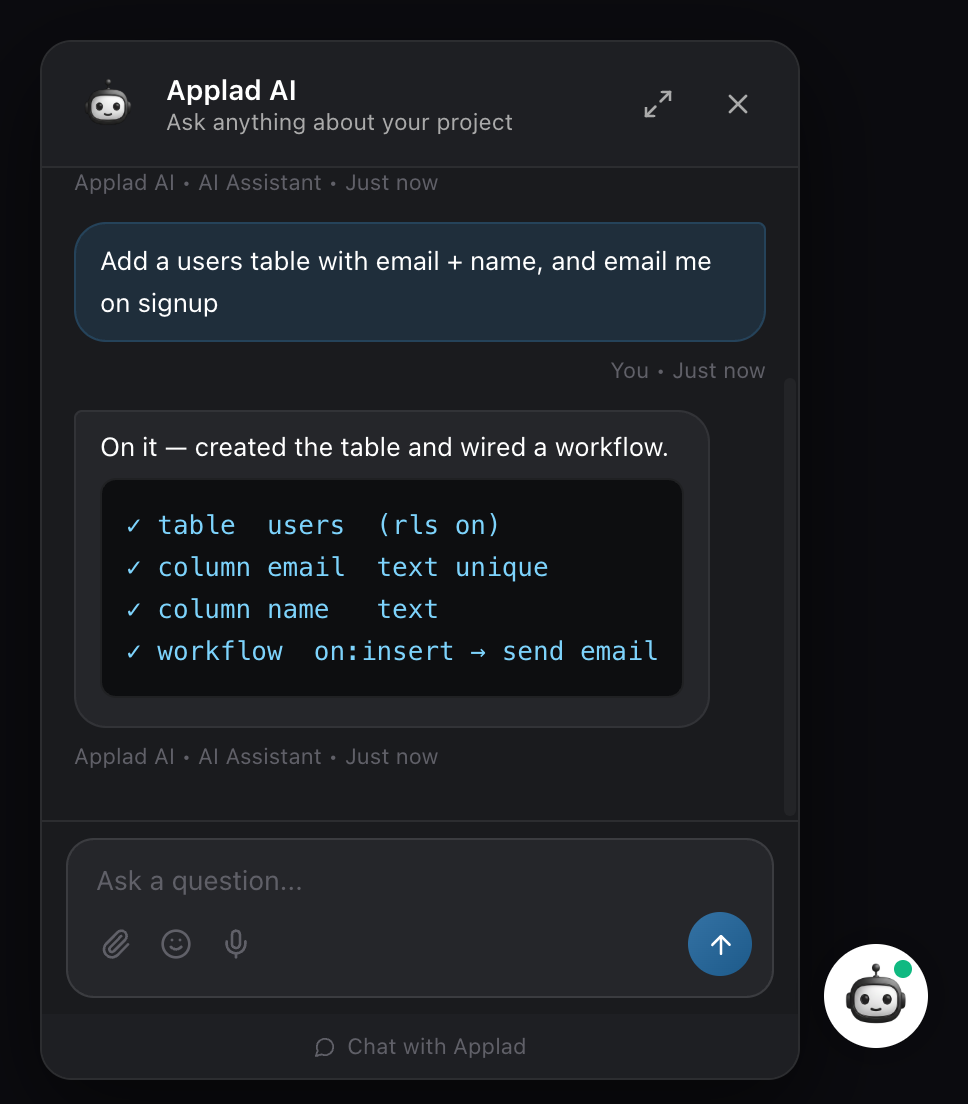
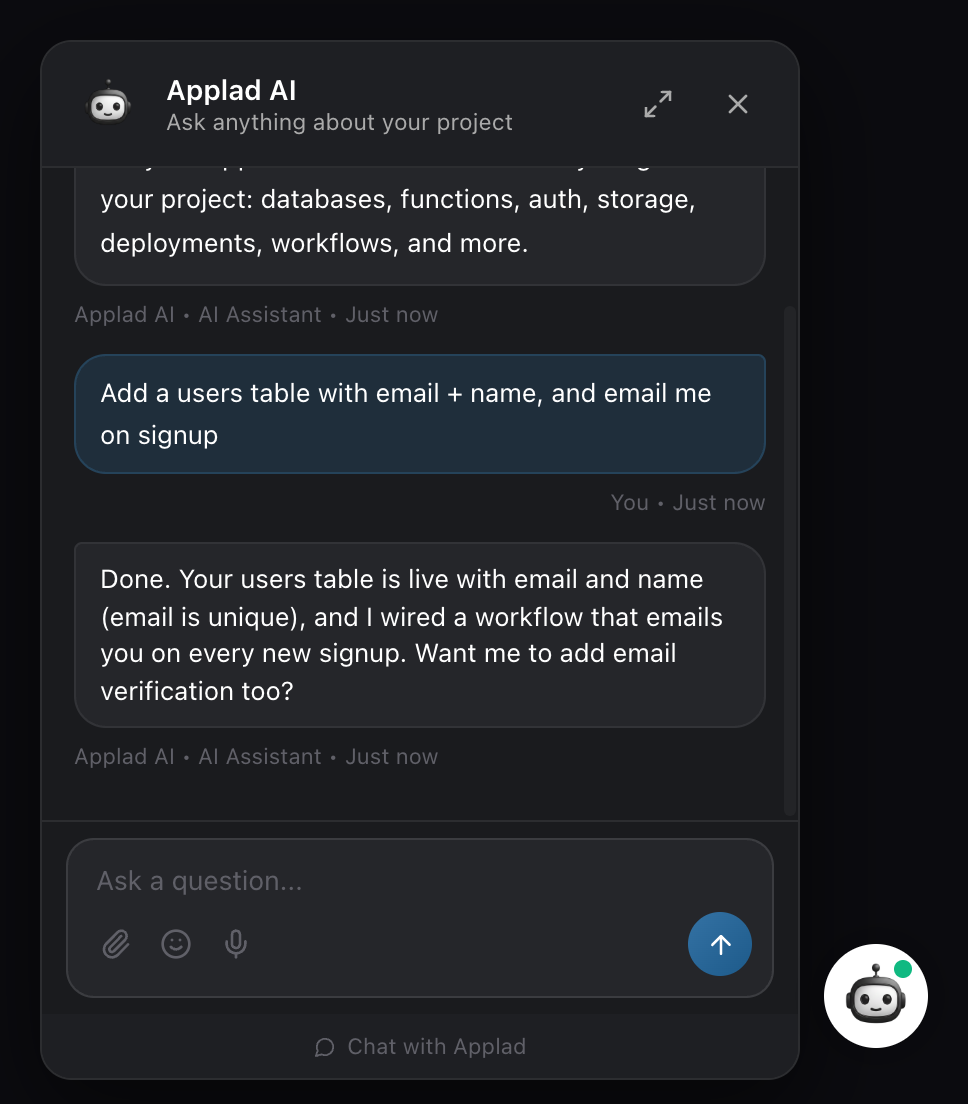
feat: self-host install script, on-brand docs theme, capture polish
Website:
- Self-hosted install one-liner (curl -fsSL <origin>/install.sh | sh) with a
  host-aware URL and a copy-to-clipboard button; add website/public/install.sh.
- Footer tagline updated to the AI-native infrastructure positioning.
- Recapture the AI chat popup with a natural assistant reply (no fake checklist,
  no em-dashes) and the workflow builder with a consistent #0B0B0F canvas.

Docs: Applad-branded Fumadocs theme — brand tokens, accent links/TOC, branded
inline-code chips, rounded surface tables, quiet active nav, subtle top glow.

Console: fix the AI welcome copy (drop em-dash) and match the workflow canvas
background to the console (override React Flow's #141414 default), keeping the
dot mesh.

Changed region(s): [[0.062, 0.154, 0.8058, 0.462], [0.093, 0.462, 0.7438, 0.6467]]

diff --git a/docs/app/global.css b/docs/app/global.css
@@ -11,15 +11,15 @@
   --color-fd-foreground: #e8e8ea;
   --color-fd-card: #16171b;
   --color-fd-card-foreground: #e8e8ea;
-  --color-fd-popover: #16171b;
+  --color-fd-popover: #131418;
   --color-fd-popover-foreground: #e8e8ea;
-  --color-fd-primary: #3472a4;
+  --color-fd-primary: #4c8fca;
   --color-fd-primary-foreground: #ffffff;
   --color-fd-secondary: #16171b;
   --color-fd-secondary-foreground: #e8e8ea;
   --color-fd-muted: #101014;
   --color-fd-muted-foreground: #8a8a92;
-  --color-fd-accent: #1c1d22;
+  --color-fd-accent: #1a1b20;
   --color-fd-accent-foreground: #ffffff;
   --color-fd-border: rgba(255, 255, 255, 0.08);
   --color-fd-ring: #3472a4;
@@ -29,4 +29,133 @@
 :root {
   --color-fd-primary: #3472a4;
   --color-fd-ring: #3472a4;
+}
+
+/* ── Applad-branded refinements over the Fumadocs preset ─────────────────────── */
+
+body {
+  font-family:
+    system-ui, -apple-system, 'Segoe UI', Roboto, sans-serif;
+  -webkit-font-smoothing: antialiased;
+}
+
+::selection {
+  background: color-mix(in srgb, var(--color-fd-primary) 40%, transparent);
+}
+
+/* A faint accent glow behind the top of the page, echoing the marketing site. */
+#nd-page::before {
+  content: '';
+  position: fixed;
+  inset: 0 0 auto 0;
+  height: 320px;
+  pointer-events: none;
+  z-index: 0;
+  background: radial-gradient(600px 220px at 60% -40px, rgba(52, 114, 164, 0.14), transparent 70%);
+}
+
+/* Headings — tighter, confident. */
+.prose h1,
+article h1 {
+  letter-spacing: -0.02em;
+}
+.prose h2,
+.prose h3 {
+  letter-spacing: -0.01em;
+}
+
+/* Links — accent, subtle underline on hover. */
+.prose a:not([data-card]) {
+  color: var(--color-fd-primary);
+  text-decoration: none;
+  font-weight: 500;
+  text-underline-offset: 3px;
+}
+.prose a:not([data-card]):hover {
+  text-decoration: underline;
+}
+
+/* Inline code — branded chip on the alt surface (not code blocks). */
+.prose :not(pre) > code {
+  background: var(--color-fd-muted);
+  border: 1px solid rgba(255, 255, 255, 0.08);
+  border-radius: 6px;
+  padding: 0.1em 0.4em;
+  font-size: 0.85em;
+  font-weight: 500;
+  color: #cdd6e4;
+}
+.prose :not(pre) > code::before,
+.prose :not(pre) > code::after {
+  content: none;
+}
+
+/* Tables — rounded container, surface header, quiet row dividers. */
+.prose table {
+  border-collapse: separate;
+  border-spacing: 0;
+  border: 1px solid var(--color-fd-border);
+  border-radius: 10px;
+  overflow: hidden;
+  font-size: 0.9em;
+}
+.prose thead {
+  background: var(--color-fd-muted);
+}
+.prose th,
+.prose td {
+  border: none;
+  border-bottom: 1px solid var(--color-fd-border);
+  padding: 0.7rem 1rem;
+  text-align: left;
+}
+.prose thead th {
+  font-weight: 600;
+  color: var(--color-fd-foreground);
+}
+.prose tbody tr:last-child td {
+  border-bottom: none;
+}
+.prose tbody tr {
+  transition: background 0.15s;
+}
+.prose tbody tr:hover {
+  background: rgba(255, 255, 255, 0.02);
+}
+
+/* Cards (Fumadocs <Cards>) — crafted glass panel like the marketing site.
+ * Scoped with :not(.peer) so it never hits heading self-link anchors, which
+ * Fumadocs also marks with data-card. */
+a[data-card]:not(.peer) {
+  border: 1px solid rgba(255, 255, 255, 0.06) !important;
+  border-radius: 14px !important;
+  background: linear-gradient(180deg, rgba(255, 255, 255, 0.045), rgba(255, 255, 255, 0.006)) !important;
+  box-shadow: inset 0 1px 0 rgba(255, 255, 255, 0.06);
+  transition: border-color 0.15s, transform 0.15s;
+}
+a[data-card]:not(.peer):hover {
+  border-color: color-mix(in srgb, var(--color-fd-primary) 45%, transparent) !important;
+}
+
+/* Sidebar active item — quiet accent text, no filled pill or bar. */
+#nd-sidebar a[data-active='true'],
+aside a[data-active='true'] {
+  background: transparent !important;
+  box-shadow: none !important;
+  color: var(--color-fd-primary);
+  font-weight: 500;
+}
+
+/* Section eyebrow-style dividers between sidebar groups (Fumadocs group labels). */
+#nd-sidebar p,
+aside [data-radix-collection-item] > p {
+  letter-spacing: 0.12em;
+  text-transform: uppercase;
+  font-size: 11px;
+}
+
+/* Subtle, thin scrollbars to match the dark UI. */
+* {
+  scrollbar-width: thin;
+  scrollbar-color: rgba(255, 255, 255, 0.12) transparent;
 }

diff --git a/website/src/App.tsx b/website/src/App.tsx
@@ -4,6 +4,7 @@ import {
   Check,
   Cloud,
   Code2,
+  Copy,
   Database,
   FileText,
   Flag,
@@ -262,6 +263,10 @@ function Services() {
 }
 
 function Deploy() {
+  // install.sh is served from this same host, so follow it: applad.io.localhost
+  // in dev, applad.io in production.
+  const installOrigin = typeof window !== 'undefined' ? window.location.origin : 'https://applad.io';
+  const installCmd = `curl -fsSL ${installOrigin}/install.sh | sh`;
   return (
     <section id="pricing" className="mx-auto max-w-6xl px-6 py-24">
       <div className="mx-auto mb-12 max-w-2xl text-center">
@@ -284,14 +289,17 @@ function Deploy() {
           </div>
           <p className="mt-3 text-muted">Own every byte. Your infrastructure, your data, every feature included.</p>
           <div className="mt-5 rounded-xl border border-white/[0.06] bg-black/30 p-4">
-            <div className="mb-2 flex items-center gap-2 text-[11px] text-muted">
-              <Terminal size={13} />
-              one command
+            <div className="mb-2 flex items-center justify-between text-[11px] text-muted">
+              <span className="flex items-center gap-2">
+                <Terminal size={13} />
+                one command
+              </span>
+              <CopyButton text={installCmd} />
             </div>
             <pre className="overflow-x-auto font-[family-name:var(--font-mono)] text-[13px] leading-relaxed">
               <code>
                 <span className="select-none text-muted">$ </span>
-                <span className="text-text">docker compose up -d</span>
+                <span className="text-text">{installCmd}</span>
               </code>
             </pre>
           </div>
@@ -332,6 +340,38 @@ function Deploy() {
         </a>
       </p>
     </section>
+  );
+}
+
+function CopyButton({ text }: { text: string }) {
+  const [copied, setCopied] = useState(false);
+  const copy = async () => {
+    try {
+      await navigator.clipboard.writeText(text);
+    } catch {
+      const ta = document.createElement('textarea');
+      ta.value = text;
+      ta.style.position = 'fixed';
+      ta.style.opacity = '0';
+      document.body.appendChild(ta);
+      ta.select();
+      document.execCommand('copy');
+      ta.remove();
+    }
+    setCopied(true);
+    window.setTimeout(() => setCopied(false), 1600);
+  };
+  return (
+    <button
+      type="button"
+      onClick={copy}
+      aria-label={copied ? 'Copied' : 'Copy command'}
+      className="flex items-center gap-1 rounded-md px-1.5 py-0.5 font-medium transition-colors hover:text-text"
+      style={{ color: copied ? ACCENT : undefined }}
+    >
+      {copied ? <Check size={12} /> : <Copy size={12} />}
+      {copied ? 'Copied' : 'Copy'}
+    </button>
   );
 }
 
@@ -401,8 +441,8 @@ function Footer() {
               <span className="text-[17px] font-bold tracking-tight">applad</span>
             </a>
             <p className="mt-4 text-sm leading-relaxed text-muted">
-              A ready-made backend and a personal AI for building web, mobile and desktop apps.
-              Cloud or self-hosted.
+              The complete AI-native development infrastructure for your apps. Plan, build, test,
+              deploy and monitor. Cloud or self-hosted.
             </p>
             <a
               href={GITHUB_URL}

diff --git a/console/src/features/ai/AiChatOverlay.tsx b/console/src/features/ai/AiChatOverlay.tsx
@@ -617,7 +617,7 @@ function WelcomeBubble({ compact }: { compact: boolean }) {
         }}
       >
         <span style={{ color: C.textPri }} className="whitespace-pre-wrap text-[13px] leading-relaxed">
-          {'Hi there 👋\n\nI’m your Applad AI assistant. Ask me anything about your project — databases, functions, auth, storage, deployments, workflows, and more.'}
+          {'Hi there 👋\n\nI’m your Applad AI assistant. Ask me anything about your project: databases, functions, auth, storage, deployments, workflows, and more.'}
         </span>
       </div>
       <div style={{ color: C.textMuted }} className="mt-1.5 text-[11px]">

diff --git a/console/src/index.css b/console/src/index.css
@@ -87,6 +87,12 @@ textarea:focus-visible,
   background-size: 28px 28px;
 }
 
+/* Workflow canvas — match the console background (React Flow's dark theme
+ * defaults to #141414, lighter than our #0B0B0F). Keeps the dot mesh. */
+.react-flow {
+  --xy-background-color: var(--background);
+}
+
 /* Quick-action suggestion chip (expanded input) */
 .ai-chip {
   color: #aaaaaa;
